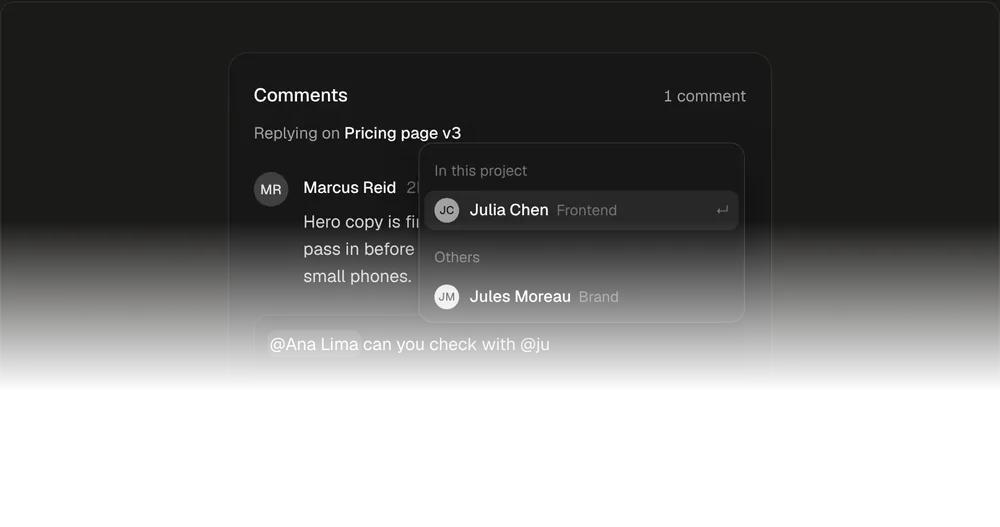
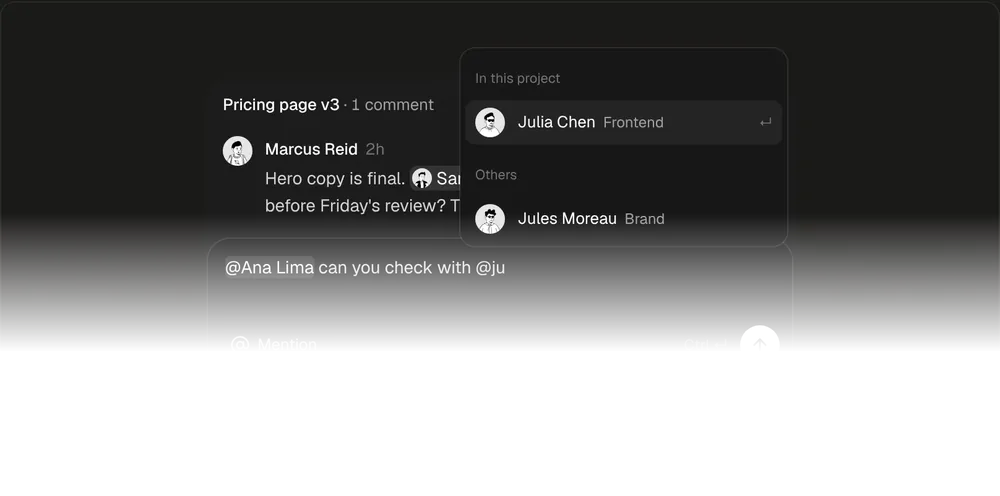
Swap in the new Pro composer components on the Pro page
Team Invite Card replaces File Tree, Verification Code replaces Address
Input, Feedback Composer replaces Newsletter Dialog, and Mention Input
gets its redrawn still, all from Pro main after PRs 64 and 66.

Claude-Session: https://claude.ai/code/session_01B8AdxzWp2hHij5CcBYgCXE

diff --git a/lib/pro-showcase.ts b/lib/pro-showcase.ts
@@ -105,10 +105,10 @@ export const PRO_SHOWCASE: ShowcaseGroup[] = [
         line: "Hits grouped by page, and an answer that cites each source.",
       },
       {
-        name: "file-tree",
-        title: "File Tree",
-        proPage: "/docs/components/file-tree",
-        line: "Keyboard navigation, inline rename and drag to move.",
+        name: "team-invite-card",
+        title: "Team Invite Card",
+        proPage: "/docs/components/team-invite-card",
+        line: "Paste emails, pick a role, check seats and send with Undo.",
       },
       {
         name: "canvas-toolbar",
@@ -189,10 +189,10 @@ export const PRO_SHOWCASE: ShowcaseGroup[] = [
         line: "Type @ to pick people, and see who will be notified before you send.",
       },
       {
-        name: "address-input",
-        title: "Address Input",
-        proPage: "/docs/components/input#address-input",
-        line: "One search box that unfolds into every address line when you pick a result.",
+        name: "verification-code",
+        title: "Verification Code",
+        proPage: "/docs/components/input#verification-code",
+        line: "Fills from typing, paste or autofill, and folds into a Verified pill.",
       },
       {
         name: "swatch-fan",
@@ -237,10 +237,10 @@ export const PRO_SHOWCASE: ShowcaseGroup[] = [
         line: "Changes wait for Save, with a count bar and a dot on edited sections.",
       },
       {
-        name: "newsletter-dialog",
-        title: "Newsletter Dialog",
-        proPage: "/docs/components/modal#newsletter-dialog",
-        line: "A sign-up that shows the latest issue and how often it comes.",
+        name: "feedback-composer",
+        title: "Feedback Composer",
+        proPage: "/docs/components/form#feedback-composer",
+        line: "Similar roadmap requests show up as you type, ready to upvote.",
       },
     ],
   },
